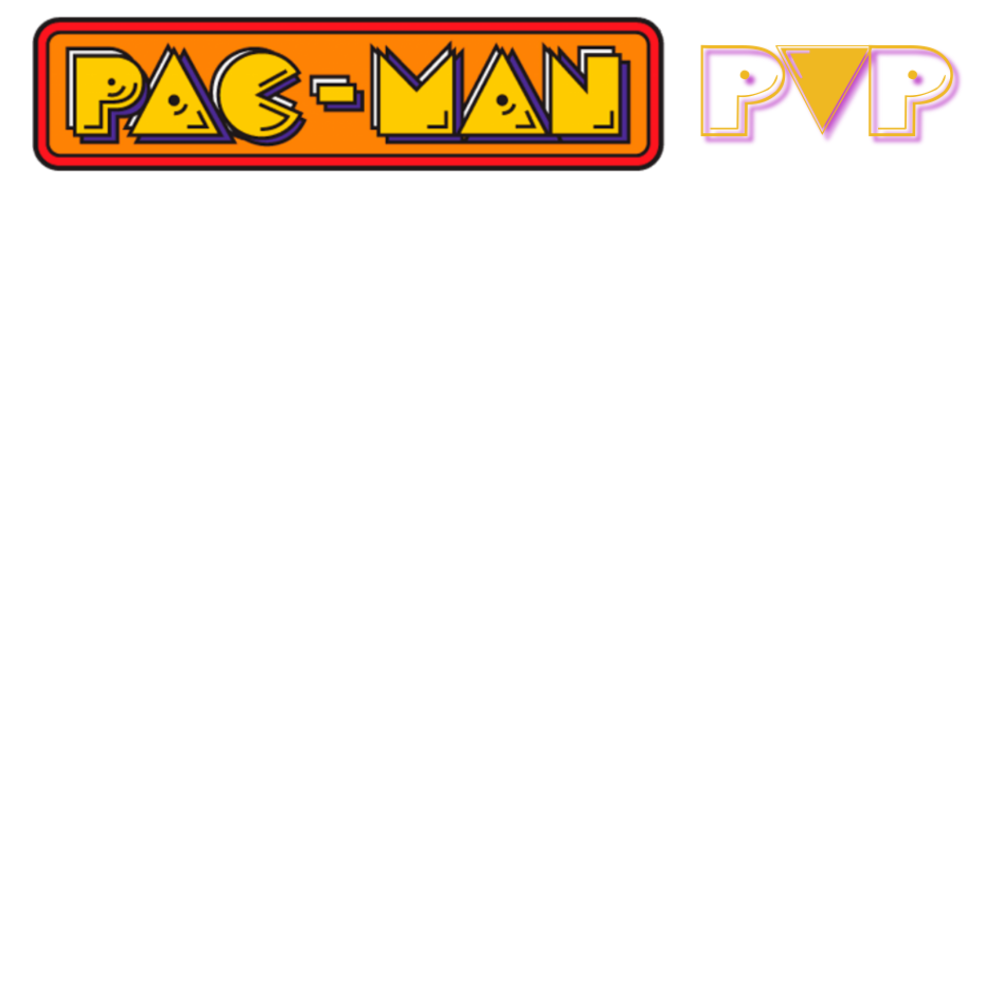
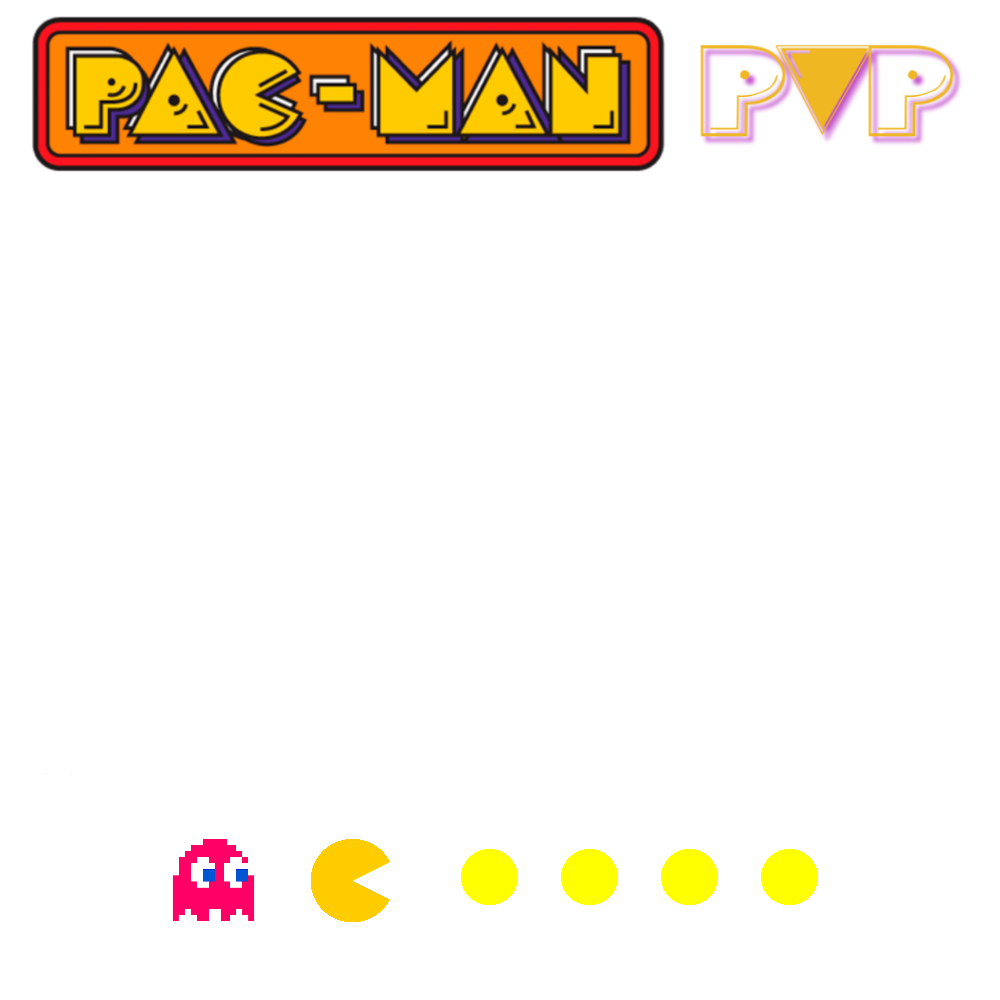
added tutorial and started getting good graphics
backbuttons + stuff

diff --git a/match_client.py b/match_client.py
@@ -47,11 +47,11 @@ def display():
     WIN.fill(BLACK)
     WIN.blit(BACKGROUND1, (0,0))
     
-    #"Username" Button
-    pygame.draw.rect(WIN, LIGHT_GREY, [USERNAME_POS_X, USERNAME_POS_Y, USERNAME_SIZE_X, USERNAME_SIZE_Y])
-    username = FONT2.render(user_text, True, BLACK)
-    WIN.blit(USERNAME_TITLE, (USERNAME_POS_X, USERNAME_POS_Y - 20))
-    WIN.blit(username, (USERNAME_POS_X, USERNAME_POS_Y+10))
+    #"Playername" Button
+    pygame.draw.rect(WIN, LIGHT_GREY, [PLAYERNAME_POS_X, PLAYERNAME_POS_Y, PLAYERNAME_SIZE_X, PLAYERNAME_SIZE_Y])
+    playername = FONT2.render(user_text, True, BLACK)
+    WIN.blit(PLAYERNAME_TITLE, (PLAYERNAME_POS_X, PLAYERNAME_POS_Y - 20))
+    WIN.blit(playername, (PLAYERNAME_POS_X, PLAYERNAME_POS_Y+10))
 
     #"Find Game" button
     pygame.draw.rect(WIN,LIGHT_GREY,[FIND_GAME_POS_X, FIND_GAME_POS_Y, FIND_GAME_SIZE_X, FIND_GAME_SIZE_Y]) 
@@ -63,53 +63,95 @@ def display():
     pygame.draw.rect(WIN, LIGHT_GREY, [QUIT_POS_X, QUIT_POS_Y, QUIT_SIZE_X, QUIT_SIZE_Y])
     if QUIT_POS_X <= mouse[0] <= QUIT_POS_X + QUIT_SIZE_X and QUIT_POS_Y <= mouse[1] <= QUIT_POS_X + QUIT_SIZE_Y:
         pygame.draw.rect(WIN, RED, [QUIT_POS_X, QUIT_POS_Y, QUIT_SIZE_X, QUIT_SIZE_Y])
-    WIN.blit(QUIT, (QUIT_POS_X + QUIT_POS_X/7, QUIT_POS_Y + QUIT_SIZE_Y/3))
+    WIN.blit(QUIT, (QUIT_POS_X + QUIT_SIZE_X/2.6, QUIT_POS_Y + QUIT_SIZE_Y/3))
+
+    #"Tutorial" Button
+    pygame.draw.rect(WIN, LIGHT_GREY, [TUTORIAL_POS_X, TUTORIAL_POS_Y, TUTORIAL_SIZE_X, TUTORIAL_SIZE_Y])
+    if TUTORIAL_POS_X <= mouse[0] <= TUTORIAL_POS_X + TUTORIAL_SIZE_X and TUTORIAL_POS_Y <= mouse[1] <= TUTORIAL_POS_Y + TUTORIAL_SIZE_Y:
+        pygame.draw.rect(WIN, GOLD, [TUTORIAL_POS_X, TUTORIAL_POS_Y, TUTORIAL_SIZE_X, TUTORIAL_SIZE_Y])
+    WIN.blit(TUTORIAL, (TUTORIAL_POS_X + TUTORIAL_SIZE_X/3.25, TUTORIAL_POS_Y + TUTORIAL_SIZE_Y/2.75))
 
     pygame.display.update()
 
-def find_game_screen(position):
+def find_game_screen():
+    mouse = pygame.mouse.get_pos()
     pygame.display.set_caption("PvP Pac-Man - Finding Game")
     WIN.fill(BLACK)
     WIN.blit(BACKGROUND2, (0,0))
     
-    WIN.blit(PACMAN, (position.x, position.y))
+    pygame.draw.rect(WIN, LIGHT_GREY, [QUIT_POS_X, QUIT_POS_Y, QUIT_SIZE_X, QUIT_SIZE_Y])
+    if QUIT_POS_X <= mouse[0] <= QUIT_POS_X + QUIT_SIZE_X and QUIT_POS_Y <= mouse[1] <= QUIT_POS_X + QUIT_SIZE_Y:
+        pygame.draw.rect(WIN, RED, [QUIT_POS_X, QUIT_POS_Y, QUIT_SIZE_X, QUIT_SIZE_Y])
+    WIN.blit(QUIT, (QUIT_POS_X + QUIT_POS_X/7, QUIT_POS_Y + QUIT_SIZE_Y/3))
 
     pygame.display.update()
+
+def tutorial_screen():
+    mouse = pygame.mouse.get_pos()
+    pygame.display.set_caption("PvP Pac-Man - Tutorial")
+    WIN.fill(BLACK)
+    WIN.blit(BACKGROUND4, (0,0))
+
+    pygame.draw.rect(WIN, LIGHT_GREY, [BACK_POS_X, BACK_POS_Y, BACK_SIZE_X, BACK_SIZE_Y])
+    if BACK_POS_X <= mouse[0] <= BACK_POS_X + BACK_SIZE_X and BACK_POS_Y <= mouse[1] <= BACK_POS_Y + BACK_SIZE_Y:
+        pygame.draw.rect(WIN, GOLD, [BACK_POS_X, TUTORIAL_POS_Y, TUTORIAL_SIZE_X, TUTORIAL_SIZE_Y])
+    WIN.blit(BACK, (BACK_POS_X + BACK_SIZE_X/2.75, BACK_POS_Y + BACK_SIZE_Y/2.75))
+
+    pygame.display.update()
+
+def match_found_screen():
+    pygame.display.set_captaion("PvP Pac-Man - Match Found!")
+    WIN.fill(BLACK)
+    WIN.blit(BACKGROUND3, (0,0))
+
+    pygame.display.update()
+    
 
 def main():
     clock = pygame.time.Clock()
     run = True
-    display_one = True
+    display_main = True
+    display_tutorial = False
+    display_find_game = False
     while run:
         mouse = pygame.mouse.get_pos()
 
         clock.tick(FPS)
         for event in pygame.event.get():
             
-            if event.type == pygame.QUIT:
+            if event.type == pygame.QUIT:   #windows quit button
                 run = False
 
-            
-
-                    
             #quit
-            if event.type == pygame.MOUSEBUTTONDOWN and display_one:
-                if QUIT_POS_X <= mouse[0] <= QUIT_POS_X + QUIT_SIZE_X and QUIT_POS_Y <= mouse[1] <= QUIT_POS_X + QUIT_SIZE_Y:  #if mouse click is in these two areas
+            if event.type == pygame.MOUSEBUTTONDOWN and (display_main or display_find_game):
+                if QUIT_POS_X <= mouse[0] <= QUIT_POS_X + QUIT_SIZE_X and QUIT_POS_Y <= mouse[1] <= QUIT_POS_Y + QUIT_SIZE_Y:  #if mouse click is within this area
                     run = False
 
-            #username
-            if event.type == pygame.KEYDOWN:    #enter username
+            if event.type == pygame.MOUSEBUTTONDOWN and display_main:
+                if TUTORIAL_POS_X <= mouse[0] <= TUTORIAL_POS_X + TUTORIAL_SIZE_X and TUTORIAL_POS_Y <= mouse[1] <= TUTORIAL_POS_Y + TUTORIAL_SIZE_Y:
+                    display_main = False
+                    display_tutorial = True
+                    tutorial_screen()
+            
+            if event.type == pygame.MOUSEBUTTONDOWN and display_tutorial:
+                if BACK_POS_X <= mouse[0] <= BACK_POS_X + BACK_SIZE_X and BACK_POS_Y <= mouse[1] <= BACK_POS_Y + BACK_SIZE_Y:
+                    display_main = True
+                    display_tutorial = False
+
+
+
+            #playername
+            if event.type == pygame.KEYDOWN and display_main:    #enter playername
                 global user_text
                 if event.key == pygame.K_BACKSPACE:
                     user_text = user_text[:-1]
                 else:
                     if len(user_text) < 10:
                         user_text += event.unicode
-            
+
             #find game
-            if event.type == pygame.MOUSEBUTTONDOWN and display_one:
+            if event.type == pygame.MOUSEBUTTONDOWN and display_main:
                 if FIND_GAME_POS_X <= mouse[0] <= FIND_GAME_POS_X + FIND_GAME_SIZE_X and FIND_GAME_POS_Y <= mouse[1] <= FIND_GAME_POS_Y + FIND_GAME_SIZE_Y:
-                    
                     client.dispatch_event("CREATE", user_text)
                     # Wait until "PLAYER_CREATED" has been handled.
                     while client.player_id is None:
@@ -119,18 +161,28 @@ def main():
                     while client.status == "lobby":
                         pass
                     
-                    display_one = False
-                    pac = pygame.Rect(50, 670, PACMAN_WIDTH, PACMAN_HEIGHT)
-                    find_game_screen(pac)
-                    
-            if client.status =="match":
+                    display_main = False
+                    display_find_game = True
+
+                    find_game_screen()
+
+            # if event.type == pygame.MOUSEBUTTONDOWN and display_find_game:
+            #     if QUIT_POS_X <= mouse[0] <= QUIT_POS_X + QUIT_SIZE_X and QUIT_POS_Y <= mouse[1] <= QUIT_POS_Y + QUIT_SIZE_Y:
+            #         run = False
+
+            if client.status == "match":
                 pass
+                #match_found_screen()
                 #TODO: launch actual game
 
 
 
-        if display_one:
+        if display_main:
             display()
+        if display_find_game:
+            find_game_screen()
+        if display_tutorial:
+            tutorial_screen()
 
     pygame.quit()
 
@@ -153,10 +205,8 @@ if __name__ == "__main__":
     HEIGHT = WIN.get_height()
     BACKGROUND1 = pygame.image.load('MainScreen.png')
     BACKGROUND2 = pygame.image.load('LoadingScreen.png')
-    PACMAN_IMAGE = pygame.image.load('pacmanyellow.png')
-    PACMAN_WIDTH = 50
-    PACMAN_HEIGHT = 51
-    PACMAN = pygame.transform.scale(PACMAN_IMAGE, (PACMAN_HEIGHT, PACMAN_WIDTH))
+    BACKGROUND3 = pygame.image.load('GameFound.png')
+    BACKGROUND4 = pygame.image.load('Tutorial.png')
     FPS = 50
     
 
@@ -166,6 +216,7 @@ if __name__ == "__main__":
     RED = 255,0,0
     GREEN = 0,255,0
     LIGHT_GREY = 211,211,211
+    GOLD = 255, 215, 0
 
 
     #text
@@ -175,15 +226,17 @@ if __name__ == "__main__":
 
     FIND_GAME = FONT.render('Find Game', True, BLACK)
     QUIT = FONT.render('Quit', True, BLACK)
-    USERNAME_TITLE = FONT.render("Username:", True, WHITE)
+    PLAYERNAME_TITLE = FONT.render("Playername:", True, WHITE)
+    TUTORIAL = FONT.render('Tutorial', True, BLACK)
+    BACK = FONT.render('Back', True, BLACK)
     user_text = ''
 
 
     #Buttons
-    USERNAME_POS_X = 282
-    USERNAME_POS_Y = 407
-    USERNAME_SIZE_X = 437
-    USERNAME_SIZE_Y = 69
+    PLAYERNAME_POS_X = 282
+    PLAYERNAME_POS_Y = 407
+    PLAYERNAME_SIZE_X = 437
+    PLAYERNAME_SIZE_Y = 69
 
     FIND_GAME_POS_X = 166
     FIND_GAME_POS_Y = 614
@@ -194,6 +247,16 @@ if __name__ == "__main__":
     QUIT_POS_Y = 614
     QUIT_SIZE_X = 219
     QUIT_SIZE_Y = 69
+
+    TUTORIAL_POS_X = 739
+    TUTORIAL_POS_Y = 892
+    TUTORIAL_SIZE_X = 219
+    TUTORIAL_SIZE_Y = 69
+
+    BACK_POS_X = 71
+    BACK_POS_Y = 892
+    BACK_SIZE_X = 219
+    BACK_SIZE_Y = 69
     
     main()
     
